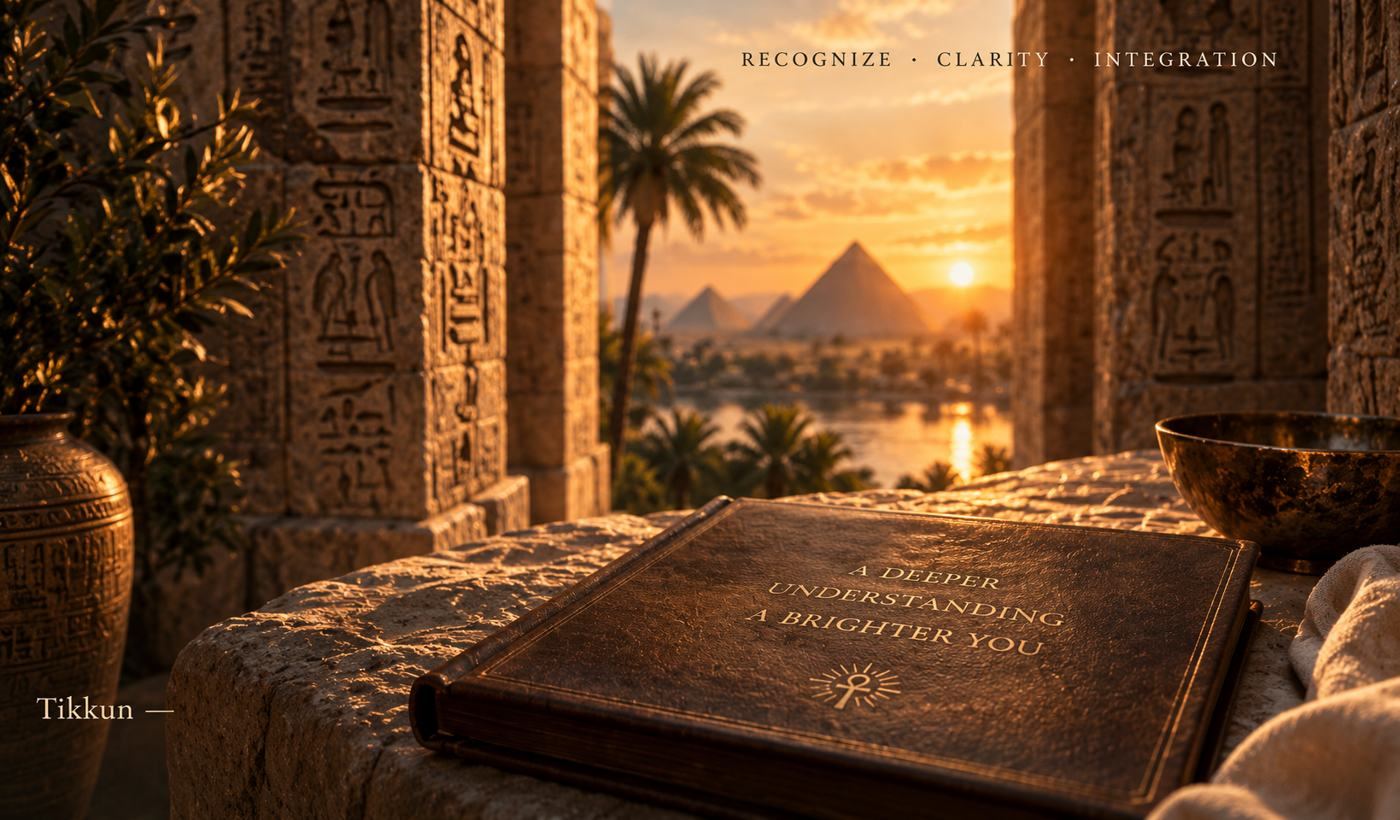
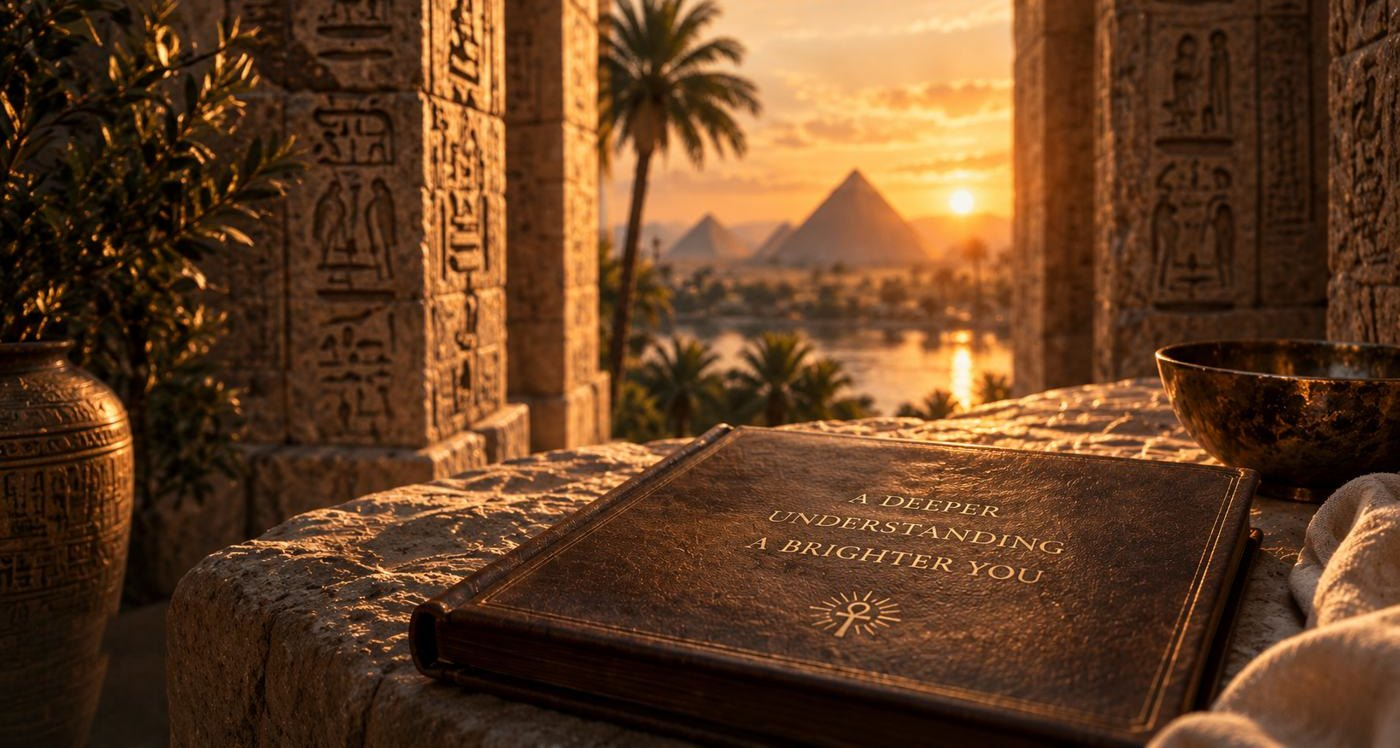
newupdate

diff --git a/szinn-portal/journey/journey.css b/szinn-portal/journey/journey.css
@@ -1093,7 +1093,7 @@ img, svg{ max-width:100%; }
 .wegen{ display:grid; grid-template-columns:repeat(3,1fr); gap:clamp(14px,2vw,22px); }
 @media (max-width:1000px){ .wegen{ grid-template-columns:1fr; } }
 .weg{ background:#FFFDFA; border:1px solid rgba(154,123,46,.3); display:flex; flex-direction:column; }
-.weg img{ width:100%; height:170px; object-fit:cover; display:block; }
+.weg img{ width:100%; height:auto; aspect-ratio:686/453; object-fit:cover; display:block; }
 .weglijf{ padding:20px 22px 24px; display:flex; flex-direction:column; flex:1; }
 .wegnr{ font-family:'Cormorant Garamond',serif; font-size:15px; color:var(--goudprint); }
 .weglijf b{ display:block; margin-top:6px; font-family:'Inter',system-ui,sans-serif; font-weight:400;
@@ -1107,18 +1107,19 @@ img, svg{ max-width:100%; }
   font-family:'Cormorant Garamond',serif; font-size:16px; color:#241C16; }
 .weglijf li i{ flex:0 0 20px; height:20px; border-radius:50%; border:1px solid rgba(154,123,46,.5);
   display:grid; place-items:center; font-style:normal; font-size:10px; color:var(--goudprint); }
-.weglijf .knop{ margin-top:auto; width:100%; background:#866B28; color:#FFF8EC;
+.weglijf .knop{ flex:0 0 auto; margin-top:auto; width:100%; background:#866B28; color:#FFF8EC;
   border-color:#9A7B2E; border-radius:0; }
 .weg .uitk{ border:0; border-top:1px solid rgba(154,123,46,.3); margin-top:16px; background:none; }
-.wrem{ margin:0 0 18px; padding-top:14px; border-top:1px solid rgba(154,123,46,.3);
+.wrem{ margin:0 0 14px; padding-top:14px; border-top:1px solid rgba(154,123,46,.3);
   display:flex; flex-direction:column; gap:10px; font-family:'Cormorant Garamond',serif; font-size:16px; color:#241C16; }
-.wremrij{ display:flex; align-items:center; gap:10px; cursor:pointer; }
-.wremrij input{ accent-color:#866B28; width:16px; height:16px; margin:0; }
+.wremrij{ display:flex; align-items:flex-start; gap:10px; cursor:pointer;
+  font-family:'Inter',system-ui,sans-serif; font-size:13px; line-height:1.45; }
+.wremrij input{ flex:0 0 auto; accent-color:#866B28; width:16px; height:16px; margin:3px 0 0; }
 .wremkeus{ display:flex; flex-direction:column; gap:8px; padding-left:26px; }
 .wremkeus[hidden], .wremnr[hidden]{ display:none; }
 .wremnr{ font:inherit; font-size:15px; padding:9px 12px; border:1px solid rgba(154,123,46,.45);
   background:#FFFDFA; color:#241C16; border-radius:0; }
-.wrem .knop{ flex:none; min-width:0; padding:10px 16px; align-self:flex-start; margin-top:0; width:auto; }
+.wrem .knop{ flex:none; min-width:0; padding:10px 16px; align-self:stretch; margin-top:0; width:100%; }
 .wremstatus{ font-size:15px; color:var(--goudprint); min-height:1em; }
 .weg .uitkop span{ padding:12px 34px 12px 0; }
 .weg .uitkop b{ font-family:'Cormorant Garamond',serif; font-size:16px; letter-spacing:0;
@@ -3771,9 +3772,17 @@ body[data-fase="helderheid"] .zprofiel:hover .znaam b{ color:var(--goudlicht); }
   border-color:var(--goudlicht); color:#1A1410; }
 /* met een vinkje ertussen mag maar één ding de rest naar beneden duwen,
    anders verdeelt de kaart de ruimte over twee plekken en valt hij uit elkaar */
-.vormen.afvinkbaar .vormvink{ margin-top:auto; padding-top:16px; }
+.vormen.afvinkbaar .vormvink{ margin-top:auto; padding-top:16px; width:100%; align-self:stretch;
+  border-top:1px solid rgba(154,123,46,.25); }
 .vormen.afvinkbaar .vorm .knop,
 .vormen.afvinkbaar .vormhier{ margin-top:14px; }
+/* afvinkbare kaarten: geen los cijfer en geen dubbel 'je bent hier'; de voet
+   (scheidingslijn, vinkje, knop) staat in alle drie de kaarten gelijk */
+.vormen.afvinkbaar .vormteken, .vormen.afvinkbaar .vormvoor{ display:none; }
+.vormen.afvinkbaar .vormlbl{ margin-top:0; }
+.vormen.afvinkbaar .vormhier{ justify-content:center; padding:13px 16px; border:1px dashed rgba(154,123,46,.5);
+  font-family:'Inter',system-ui,sans-serif; font-size:11.5px; letter-spacing:.18em;
+  line-height:normal; text-align:center; cursor:default; }
 
 /* ── de slotbalk aan het eind van een fase ────────────────────────────
    Er stond alleen een rond pijltje met een klein bijschrift. Dat is mooi,
@@ -4110,12 +4119,11 @@ a.knop{ display:inline-flex; align-items:center; justify-content:center; }
 /* ── het merkje bij een stap die in de proefperiode zit ───────────────
    Het stond alleen als zin in de lopende tekst; wie de knop scant leest die
    niet. Nu draagt de stap het zelf, boven de tekst. */
-.wegproef{ display:inline-flex; align-items:center; gap:7px; margin:8px 0 2px;
-  padding:5px 11px; border-radius:2px; background:rgba(184,92,50,.12);
-  border:1px solid rgba(184,92,50,.45);
-  font-family:'Inter',system-ui,sans-serif; font-weight:500; font-size:9px;
-  letter-spacing:.2em; text-transform:uppercase; color:#A5522C; }
-.wegproef::before{ content:"\2726"; font-size:10px; letter-spacing:0; }
+.wegproef{ display:inline-block; align-self:flex-start; margin-top:10px;
+  padding:3px 8px; border:1px solid rgba(154,123,46,.4);
+  font-family:'Inter',system-ui,sans-serif; font-size:8.5px;
+  letter-spacing:.2em; text-transform:uppercase; color:var(--goudprint); }
+.wegproef::before{ content:"\2726"; margin-right:6px; letter-spacing:0; }
 
 /* ── Pagina 1 in drie stappen ─────────────────────────────────────────────
    Stap 1: het gewone welkomstscherm (achtergrond, tekst, knop 'start nu').
